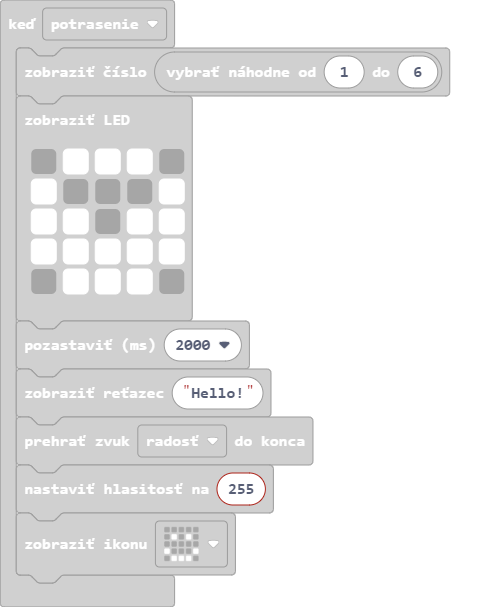
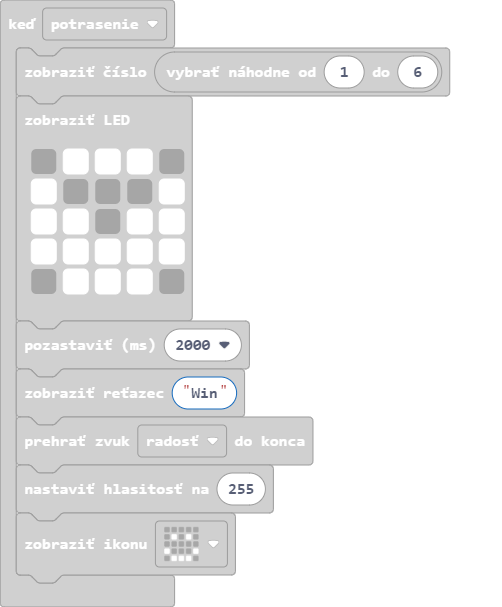
Aktualizovať main.blocks, main.ts

diff --git a/main.ts b/main.ts
@@ -8,7 +8,7 @@ input.onGesture(Gesture.Shake, function () {
         . # # # .
         `)
     basic.pause(2000)
-    basic.showString("Hello!")
+    basic.showString("Win")
     soundExpression.happy.playUntilDone()
     music.setVolume(255)
     basic.showIcon(IconNames.Happy)
